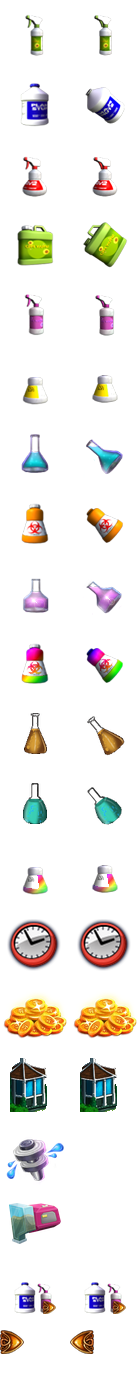
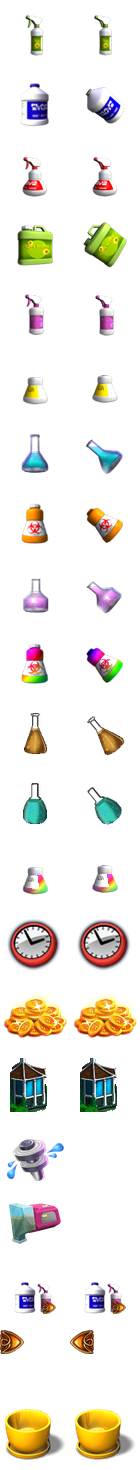
Extra Nursery: the golden pot pre-scaled to the clock's height (chemicals sheet row 20), its rect matched

Changed region(s): [[0.0, 0.0, 0.4857, 1.0], [0.5429, 0.0, 0.9714, 0.7986], [0.5143, 0.86, 0.9429, 1.0]]

diff --git a/scripts/build_plant_upgrades_assets.py b/scripts/build_plant_upgrades_assets.py
@@ -24,7 +24,8 @@ Writes, under assets/plant_tycoon_upgrades/Images:
   with the Extra Greenhouse item (greenhouse_icon below), and rows 16 and 17
   (the 17th and 18th) hold Automatic Sprinklers and the Auto-Healer, upright only
   (scripts/build_auto_upgrades_assets.py), row 18 the Extra Chemical Slots item and
-  row 19 its two gold page arrows (scripts/build_chem_slots_assets.py). A chemical's row is
+  row 19 its two gold page arrows (scripts/build_chem_slots_assets.py), row 20 the Extra
+  Nursery's golden pot (nursery_icon below). A chemical's row is
   its id - 27 (the game draws frame 2 x id - 54). The DLL points the chemical
   sheet record at it.
 * upgrades_link.png: the store's "Upgrades" link, two frames side by side
@@ -69,6 +70,9 @@ GREENHOUSE_EAVES = 45                   # source rows above the eaves: only the 
 GREENHOUSE_BOX = (48, 54)             # the most the picture may be (w, h): the tool shelf's items are 35-69 x 43-49
 GREENHOUSE_CENTRE_X = 28                # in the cell: x 432 on screen, the middle of the click rectangle
 GREENHOUSE_BOTTOM = 62                  # in the cell, exclusive: the last row at y 111 on screen
+NURSERY_ROW = 20                        # the Extra Nursery's golden pot (frames 40 and 41)
+NURSERY_HEIGHT = 52                     # the Time Warp clock's visible height beside it (Add Money's: 51)
+NURSERY_BOTTOM = 61                     # in the cell, exclusive: the clock's and coins' bottom line (y 357)
 
 
 def seed_box(frame: int) -> tuple[int, int, int, int]:
@@ -131,7 +135,7 @@ def formula_bottle(images: Path) -> Image.Image:
     stock = Image.open(images / "Chemicals_Grid.png").convert("RGBA")
     if stock.size != (2 * CHEM_CELL, CHEM_ROWS * CHEM_CELL):
         raise SystemExit(f"Chemicals_Grid.png is {stock.size}, expected the stock 140 x 630")
-    sheet = Image.new("RGBA", (stock.width, (CHEM_ROWS + 11) * CHEM_CELL))
+    sheet = Image.new("RGBA", (stock.width, (CHEM_ROWS + 12) * CHEM_CELL))
     sheet.paste(stock, (0, 0))
     for column in (0, 1):
         box = (column * CHEM_CELL, MUTATION_ROW * CHEM_CELL, (column + 1) * CHEM_CELL, (MUTATION_ROW + 1) * CHEM_CELL)
@@ -170,7 +174,29 @@ def formula_bottle(images: Path) -> Image.Image:
     for row, cells in build_chem_slots_assets.plant_rows(stock, images).items():
         for column, cell in enumerate(cells):
             sheet.paste(cell, (column * CHEM_CELL, row * CHEM_CELL))
+    # Row 20 (frames 40 and 41): the Extra Nursery item, the game's golden pot pre-scaled.
+    pot = nursery_icon(images)
+    for column in (0, 1):
+        sheet.alpha_composite(pot, (column * CHEM_CELL, NURSERY_ROW * CHEM_CELL))
     return sheet
+
+
+def nursery_icon(images: Path) -> Image.Image:
+    """The Extra Nursery's store icon, one 70 x 70 cell: the game's golden pot (goldpot.png, sprite
+    0x2C, 76 x 64), shrunk to the visible height of its Nursery-shelf neighbours (the Time Warp clock,
+    52 px, and Add Money's coins, 51 px: NURSERY_HEIGHT) and standing on their bottom line (61 of the
+    cell), centred in the cell. The DLL draws the cell at (449, 296) at scale 1 (the plant store's draw
+    ignores a scale: the 0.84 it used to pass drew the pot at its full 76 x 64), so the pot spans
+    x 453-514, y 305-356, centred where the full-size pot was (x 484)."""
+    pot = Image.open(images / "goldpot.png").convert("RGBA")
+    if pot.size != (76, 64):
+        raise SystemExit(f"goldpot.png is {pot.size}, expected the stock 76 x 64")
+    pot = pot.crop(pot.getbbox())
+    scale = NURSERY_HEIGHT / pot.height
+    small = pot.resize((round(pot.width * scale), NURSERY_HEIGHT), Image.LANCZOS)
+    cell = Image.new("RGBA", (CHEM_CELL, CHEM_CELL))
+    cell.alpha_composite(small, ((CHEM_CELL - small.width) // 2, NURSERY_BOTTOM - small.height))
+    return cell
 
 
 def greenhouse_icon(images: Path) -> Image.Image:

diff --git a/tests/test_nursery_icon.py b/tests/test_nursery_icon.py
@@ -1,0 +1,79 @@
+"""The Extra Nursery's store item (5 extra nurseries): the game's golden pot, pre-scaled.
+
+The plant store's draw (0x4208F0) ignores its scale argument, so the 0.84 the item used to pass drew
+goldpot.png (sprite 0x2C) at its full 76 x 64, taller than the Time Warp clock and Add Money's coins
+beside it. The pot is now row 20 (frame 40) of the Upgrades DLL's chemicals sheet, the clock's visible
+height, standing on the clock's and the coins' bottom line, drawn at scale 1; its click and tooltip
+rectangle is its picture's.
+"""
+
+from __future__ import annotations
+
+import sys
+import unittest
+from pathlib import Path
+
+ROOT = Path(__file__).resolve().parents[1]
+sys.path.insert(0, str(ROOT / "scripts"))
+sys.path.insert(0, str(ROOT / "tests"))
+
+try:
+    import store_emulator as E
+    from PIL import Image
+except ImportError:
+    E = None
+
+SHEET = ROOT / "assets" / "plant_tycoon_upgrades" / "Images" / "Chemicals_Grid_upgrades.png"
+SOURCE = ROOT / "native" / "ftfp_plant_upgrades" / "ftfp_plant_upgrades.c"
+EXE = (E.VANILLA / "Plant Tycoon" / "Plant Tycoon.exe") if E else None
+SHEET_CHEMICALS = 0xB3
+RECT = (453, 305, 514, 356)                 # ftfp_plant_upgrades.c, the Extra Nursery's rect (inclusive)
+
+
+def _ready() -> bool:
+    return E is not None and EXE is not None and EXE.is_file() and E.toolchain_ready()
+
+
+def cell(sheet, frame: int):
+    return sheet.crop(((frame % 2) * 70, (frame // 2) * 70, (frame % 2) * 70 + 70, (frame // 2) * 70 + 70))
+
+
+def overlaps(a, b) -> bool:
+    return a[0] <= b[2] and b[0] <= a[2] and a[1] <= b[3] and b[1] <= a[3]
+
+
+@unittest.skipUnless(_ready(), "needs Unicorn, PIL, the pinned MSVC toolset and the vanilla executable")
+class NurseryIconTests(unittest.TestCase):
+    def test_the_pot_is_the_clocks_height_on_the_shelf_line_and_smaller_than_before(self) -> None:
+        sheet = Image.open(SHEET).convert("RGBA")
+        pot, clock, coins = (cell(sheet, f).getbbox() for f in (40, 26, 28))
+        self.assertEqual(pot[3] - pot[1], clock[3] - clock[1])            # 52 px, as the Time Warp clock
+        self.assertEqual(pot[3], clock[3])                                # the same bottom line
+        self.assertEqual(pot[3], coins[3])
+        stock = Image.open(EXE.parent / "Images" / "goldpot.png")
+        self.assertLess(pot[3] - pot[1], stock.height)                    # 52 < the 64 it was drawn at
+        self.assertLess(pot[2] - pot[0], stock.width)
+        import build_plant_upgrades_assets as B
+        self.assertEqual(B.nursery_icon(EXE.parent / "Images").tobytes(), cell(sheet, 40).tobytes())
+
+    def test_drawn_at_scale_one_with_its_click_rectangle_and_overlapping_nothing(self) -> None:
+        source = SOURCE.read_text(encoding="utf-8")
+        self.assertIn("SHEET_CHEMICALS, NURSERY_FRAME, NURSERY_X, NURSERY_Y, 1.0f", source)
+        self.assertIn("{ 453, 305, 514, 356 }", source)
+        import render_seed_boxes_preview as S
+        sheets = S.Sheets(EXE.parent)
+        drawn = S.store_draws((1, 1, 1, 1, 1, 1), chem_slots=0)
+        self.assertIn(("sprite", SHEET_CHEMICALS, 40, 449, 296), drawn)
+        self.assertFalse([d for d in drawn if d[0] == "sprite" and d[1] == 0x2C])     # never the full-size pot
+        visible = S.visible_rect(sheets, ("sprite", SHEET_CHEMICALS, 40, 449, 296))
+        self.assertEqual((visible[0], visible[1], visible[2] - 1, visible[3] - 1), RECT)   # click = picture
+        for d in drawn:
+            if d[0] != "sprite" or d[1:] == (SHEET_CHEMICALS, 40, 449, 296):
+                continue
+            other = S.visible_rect(sheets, d)
+            if other is not None:
+                self.assertFalse(overlaps(RECT, (other[0], other[1], other[2] - 1, other[3] - 1)), d)
+
+
+if __name__ == "__main__":
+    unittest.main()

diff --git a/native/ftfp_plant_upgrades/ftfp_plant_upgrades.c b/native/ftfp_plant_upgrades/ftfp_plant_upgrades.c
@@ -820,8 +820,11 @@ static void add_money(char *scene) {
    came out full size across three shelves.  The game's sprite table has one
    spare record, which the Upgrades link uses, so the icon shares this mod's
    chemicals sheet as the Time Warp clock and Add Money's coins do.  The
-   nursery stands on the Nursery shelf beside Add Money, drawn with the game's
-   own golden pot (goldpot.png, sprite 0x2C, the nursery's display).
+   nursery stands on the Nursery shelf beside Add Money: the game's own golden
+   pot (goldpot.png, the nursery's display), pre-scaled to the clock's and the
+   coins' visible height (row 20, frame 40, of the chemicals sheet), drawn at
+   scale 1.  It used to be sprite 0x2C with a scale of 0.84, which the store's
+   draw ignores, so it came out at its full 76 x 64, taller than its neighbours.
    An item shows only while its setting is on (its Owned export says -1 when
    it is off). */
 #define EXTRA_PRICE 10000
@@ -840,6 +843,9 @@ typedef struct extra_item {
 } extra_item;
 
 #define GREENHOUSE_FRAME 30                 /* row 15 of the chemicals sheet: rows 13 and 14 are Time Warp and Add Money */
+#define NURSERY_FRAME 40                    /* row 20: the golden pot, 52 px tall as the clock beside it */
+#define NURSERY_X 449                       /* the pot's art at 453-514 x 305-356, centred where the full-size one was */
+#define NURSERY_Y 296
 
 static const extra_item EXTRA_ITEM[EXTRA_ITEMS] = {
     /* The picture's visible part is x 414..451, y 58..111 (its 70 x 70 cell at 404, 50): on the shelf line
@@ -852,8 +858,8 @@ static const extra_item EXTRA_ITEM[EXTRA_ITEMS] = {
     { "Extra Nursery", L"Extra Nursery", L"You already have all five extra nurseries!",
       L"You can't afford to buy this yet! An extra nursery costs $10,000.",
       L"Buy Nursery %d for $%d?\n\nIt holds 15 more plants for sale. The arrows on the nursery screen lead to it.",
-      "FtfpExtraNurseriesOwned", "FtfpExtraNurseriesBuy", 0x2C, 0, 440 + 6, 296, 0.84f,
-      440 + 0x19, 296 + 0x1E, 440 + 19, 296 + 22, { 440, 296, 504, 360 } },
+      "FtfpExtraNurseriesOwned", "FtfpExtraNurseriesBuy", SHEET_CHEMICALS, NURSERY_FRAME, NURSERY_X, NURSERY_Y, 1.0f,
+      NURSERY_X + 0x19, NURSERY_Y + 0x1E, NURSERY_X + 19, NURSERY_Y + 22, { 453, 305, 514, 356 } },
 };
 static extra_fn extra_owned[EXTRA_ITEMS], extra_buy[EXTRA_ITEMS];
 static char *extra_tip[EXTRA_ITEMS];
@@ -1980,10 +1986,11 @@ static void site_data(ftfp_site_write *w, unsigned int va, int length, const uns
 static int prepare(void) {
     ftfp_site_write *w = writes;
     DWORD seed_file = (DWORD)(UINT_PTR)SEED_SHEET_FILE, chem_file = (DWORD)(UINT_PTR)CHEM_SHEET_FILE;
-    DWORD seed_rows = 8, chem_rows = 20;           /* rows 10-12: chemicals 37-39, 13: Time Warp, 14: Add Money,
+    DWORD seed_rows = 8, chem_rows = 21;           /* rows 10-12: chemicals 37-39, 13: Time Warp, 14: Add Money,
                                                       15: the Extra Greenhouse, 16: Automatic Sprinklers,
                                                       17: Auto-Healer, 18: Extra Chemical Slots,
-                                                      19: its page arrows (Extra Chemical Slots.dll) */
+                                                      19: its page arrows (Extra Chemical Slots.dll),
+                                                      20: the Extra Nursery's golden pot */
     DWORD link[6];
     unsigned char bound = SITE_CHEM_PICTURE_BOUND_NEW;
     link[0] = LINK_SPRITE;

diff --git a/scripts/render_extra_greenhouses_preview.py b/scripts/render_extra_greenhouses_preview.py
@@ -15,7 +15,7 @@ writes, in docs/images:
   with the two new Upgrades items where Store Upgrades and Items.dll draws
   them: the Extra Greenhouse (frame 30 of the mod's Chemicals_Grid_upgrades.png,
   built by scripts/build_plant_upgrades_assets.py) on the tool shelf beside the
-  Fourth-Sixth Seed Boxes, and the Extra Nursery (goldpot.png at 0.84) on the
+  Fourth-Sixth Seed Boxes, and the Extra Nursery (frame 40: goldpot.png pre-scaled) on the
   Nursery shelf beside Time Warp and Add Money. Their tooltips pop up only
   under the mouse, so the picture leaves them out (their glyphs are checked).
 
@@ -172,7 +172,7 @@ def main() -> int:
     # (peep_shadow1.png), then its picture. The tool shelf: the Extra Greenhouse (frame 30 of the mod's
     # chemicals sheet, at scale 1) beside the Fourth-Sixth Seed Boxes (Tools_Grid.png frame 4, 9, 14 at
     # 461, 50 + 61 i). The Nursery shelf: Time Warp and Add Money (frames 26 and 28) and the Extra
-    # Nursery (goldpot.png at 0.84).
+    # Nursery (frame 40: goldpot.png pre-scaled to the clock's height, drawn at 449, 296).
     screen = Image.open(images / "Store_BG.jpg").convert("RGBA")
     shadow = Image.open(images / "peep_shadow1.png").convert("RGBA")
     chems = Image.open(ROOT / "assets" / "plant_tycoon_upgrades" / "Images" / "Chemicals_Grid_upgrades.png").convert("RGBA")
@@ -187,9 +187,8 @@ def main() -> int:
         screen.alpha_composite(chem(frame), (x, 296))
     screen.alpha_composite(shadow, (408, 80))
     screen.alpha_composite(chem(30), (404, 50))
-    screen.alpha_composite(shadow, (440 + 0x19, 296 + 0x1E))
-    pot = scaled(images / "goldpot.png", 0.84)
-    screen.alpha_composite(pot, (440 + 6, 296))
+    screen.alpha_composite(shadow, (449 + 0x19, 296 + 0x1E))
+    screen.alpha_composite(chem(40), (449, 296))                      # the golden pot, pre-scaled (row 20)
     save(screen, "extra-greenhouses-store.png")
     return 0
 

diff --git a/tests/test_revival_potion.py b/tests/test_revival_potion.py
@@ -82,7 +82,7 @@ class ArtAndManifestTests(unittest.TestCase):
         for text in ("Revival Potion", "Revita-Seed", "$2,500", "Radioactive Plant Formula Bomb", "$30,000",
                      "every live plant in the greenhouse"):
             self.assertIn(text, upgrades["description"])
-        self.assertEqual(png_size(PLANT_SHEET), (140, 20 * 70))     # rows 10-12 new; 13 Time Warp, 14 Add Money,
+        self.assertEqual(png_size(PLANT_SHEET), (140, 21 * 70))     # rows 10-12 new; 13 Time Warp, 14 Add Money,
                                                                      # 15 the Extra Greenhouse, 16-17 the Auto items
         free = combined.patch_settings("plant")["free_upgrades"]["description"]
         for text in ("the Revival Potion ($10,000)", "Revita-Seed ($2,500)", "the Formula Bomb ($30,000)"):

diff --git a/tests/test_store_extras.py b/tests/test_store_extras.py
@@ -91,7 +91,7 @@ class ManifestTests(unittest.TestCase):
         icon = ROOT / "assets" / "fish_tycoon_ds_store" / "Images" / "ITEM_ADD_MONEY.png"
         self.assertEqual(png_size(icon), (74, 60))     # the DLL's icon_w / icon_h for the item
         sheet = ROOT / "assets" / "plant_tycoon_upgrades" / "Images" / "Chemicals_Grid_upgrades.png"
-        self.assertEqual(png_size(sheet), (140, 20 * 70))   # row 14: the coins, 15: the Extra Greenhouse, 16-17 the Auto items, 18-19 Extra Chemical Slots (chem_rows = 20)
+        self.assertEqual(png_size(sheet), (140, 21 * 70))   # row 14: the coins, 15: the Extra Greenhouse, 16-17 the Auto items, 18-19 Extra Chemical Slots, 20 the Extra Nursery (chem_rows = 21)
         self.assertEqual(png_size(ROOT / "assets" / "money_cheat" / "coins_source.png"), (195, 159))
 
 

diff --git a/tests/test_auto_upgrades.py b/tests/test_auto_upgrades.py
@@ -89,7 +89,7 @@ class ArtAndManifestTests(unittest.TestCase):
             self.assertEqual((box[3] - box[1], box[3]), (57, 62), name)        # as item_growthhormone.png
             self.assertEqual(png_size(FISH_IMAGES / name), (73, 65), name)
         sheet = Image.open(PLANT_SHEET).convert("RGBA")
-        self.assertEqual(sheet.size, (140, 20 * 70))   # rows 18-19: Extra Chemical Slots
+        self.assertEqual(sheet.size, (140, 21 * 70))   # rows 18-19: Extra Chemical Slots, 20: the Extra Nursery
         cell = lambda row, col=0: sheet.crop((col * 70, row * 70, col * 70 + 70, row * 70 + 70)).getchannel("A").getbbox()
         sprinklers, healer, formula = cell(16), cell(17), cell(9)
         self.assertEqual((sprinklers[3] - sprinklers[1], sprinklers[3]), (49, 65))    # the seed box's drawer beside it

diff --git a/tests/test_extra_greenhouses.py b/tests/test_extra_greenhouses.py
@@ -1195,7 +1195,7 @@ class StoreItemTests(unittest.TestCase):
 
         art = ROOT / "assets" / "plant_tycoon_upgrades" / "Images" / "Chemicals_Grid_upgrades.png"
         chems = np.asarray(Image.open(art).convert("RGBA"))
-        self.assertEqual(chems.shape[0], 20 * 70)                     # chem_rows = 20 in the DLL
+        self.assertEqual(chems.shape[0], 21 * 70)                     # chem_rows = 21 in the DLL
         cell = chems[(frame // 2) * 70:(frame // 2 + 1) * 70, (frame % 2) * 70:(frame % 2 + 1) * 70, 3]
         ys, xs = np.nonzero(cell)
         left, top, right, bottom = x + xs.min(), y + ys.min(), x + xs.max(), y + ys.max()   # inclusive, on screen

diff --git a/tests/test_chem_slots.py b/tests/test_chem_slots.py
@@ -1239,7 +1239,7 @@ class ArtAndManifestTests(unittest.TestCase):
     def test_the_sheet_has_the_item_and_the_arrows(self) -> None:
         from PIL import Image
         sheet = Image.open(SHEET).convert("RGBA")
-        self.assertEqual(sheet.size, (140, 20 * 70))
+        self.assertEqual(sheet.size, (140, 21 * 70))
         cell = lambda f: sheet.crop(((f % 2) * 70, (f // 2) * 70, (f % 2) * 70 + 70, (f // 2) * 70 + 70))
         box = cell(36).getbbox()
         self.assertTrue(box[0] >= 12 and box[2] <= 58 and box[1] >= 8 and box[3] <= 61, box)     # in its click rectangle

diff --git a/scripts/render_seed_boxes_preview.py b/scripts/render_seed_boxes_preview.py
@@ -45,7 +45,7 @@ IMAGES_OUT = ROOT / "docs" / "images"
 UPGRADE_IMAGES = ROOT / "assets" / "plant_tycoon_upgrades" / "Images"
 SPRITE_TABLE, SPRITE_RECORD, SPRITE_COUNT = 0x4855F0, 0x34, 222
 OVERRIDES = {0x2E: (UPGRADE_IMAGES / "seed_grid_legendary.png", 16, 8),     # the DLL's taller sheets
-             0xB3: (UPGRADE_IMAGES / "Chemicals_Grid_upgrades.png", 2, 20)}
+             0xB3: (UPGRADE_IMAGES / "Chemicals_Grid_upgrades.png", 2, 21)}
 SHEET_SHADOW, SHEET_TICK = 0xB0, 0x25
 
 

diff --git a/CHANGELOG.md b/CHANGELOG.md
@@ -2,6 +2,14 @@
 
 ## Unreleased
 
+- **Extra Nursery item a bit smaller** (Plant Tycoon, 5 extra nurseries). The
+  golden pot on the Upgrades view's Nursery shelf was drawn at its full 76 x 64
+  (the plant store's draw ignores the 0.84 scale it was given), taller than the
+  Time Warp clock and the coins beside it. It is now pre-scaled to the clock's
+  visible height (52 px), standing on the same shelf line, from a new row 20 of
+  the Upgrades chemicals sheet, drawn at scale 1 at (449, 296); its click and
+  tooltip rectangle is its picture's (453-514 x 305-356). Tests:
+  tests/test_nursery_icon.py.
 - **Extra chemical slots** (Plant Tycoon, new setting, off by default,
   EXPERIMENTAL; needs Add new store upgrades and items, which it turns on;
   Enable All turns it on). The greenhouse's Tools box is a 4 x 2 grid (the
